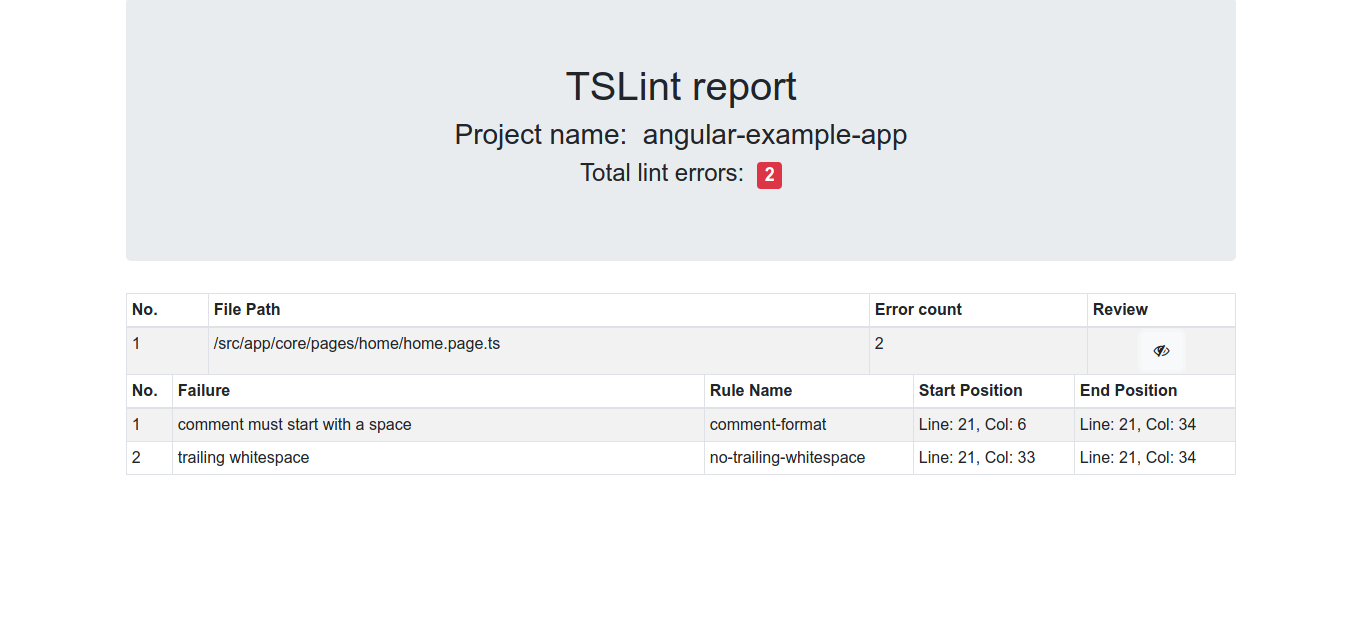
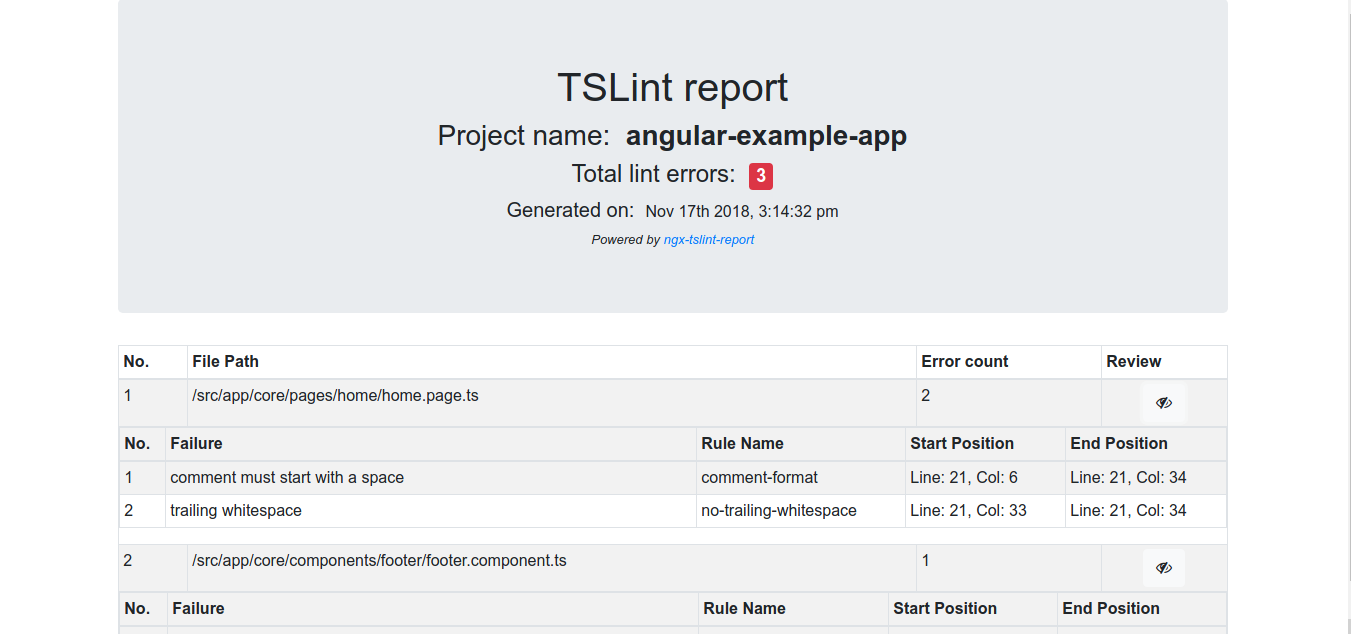
Updated readme and ui improvements

diff --git a/dist/ngx-tslint-report.js b/dist/ngx-tslint-report.js
@@ -1,2 +1,2 @@
 #!/usr/bin/env node
-var ngxtslintreport=function(t){"use strict";function p(){var t,n,r,e=Array.prototype.slice.call(arguments,0);return t=o(e,function(t,n){if("string"!=typeof t)throw new TypeError("Arguments to path.join must be strings");return t}).join("/"),n="/"===t.charAt(0),r="/"===i(t,-1),(t=function(t,n){for(var r=0,e=t.length-1;0<=e;e--){var o=t[e];"."===o?t.splice(e,1):".."===o?(t.splice(e,1),r++):r&&(t.splice(e,1),r--)}if(n)for(;r--;r)t.unshift("..");return t}(o(t.split("/"),function(t){return!!t}),!n).join("/"))||n||(t="."),t&&r&&(t+="/"),(n?"/":"")+t}function o(t,n){if(t.filter)return t.filter(n);for(var r=[],e=0;e<t.length;e++)n(t[e],e,t)&&r.push(t[e]);return r}var e,n,i="b"==="ab".substr(-1)?function(t,n,r){return t.substr(n,r)}:function(t,n,r){return n<0&&(n=t.length+n),t.substr(n,r)},c=require("chalk"),r=require("fancy-log");(n=e||(e={}))[n.INFO=0]="INFO",n[n.DEBUG=1]="DEBUG",n[n.WARN=2]="WARN",n[n.ERROR=3]="ERROR";var u=new(function(){function t(){this.logger=r}return t.prototype.info=function(t){this.formatAndPrint(e.INFO,t)},t.prototype.debug=function(t){this.formatAndPrint(e.DEBUG,t)},t.prototype.warn=function(t){this.formatAndPrint(e.WARN,t)},t.prototype.error=function(t){this.formatAndPrint(e.ERROR,t)},t.prototype.formatAndPrint=function(t,n){var r=n;switch(t){case e.INFO:r=c.green(n);break;case e.DEBUG:r=c.cyan(n);break;case e.WARN:r=c.yellow(n);break;case e.ERROR:r=c.red(n)}this.logger(r)},t}()),s=require("ora"),f=new(function(){function t(){}return t.prototype.show=function(t){var n={color:"magenta",spinner:"moon",text:t};this.loaderIndicator=s(n).start()},t.prototype.hide=function(){this.loaderIndicator.stop()},t}()),a="angular.json",l="package.json",h="ngx-tslint-report",g="tslint-report-config.json",d="ngx-ts-lint-report-template.hbs",y="index.html",T=require("fs-extra"),v=require("lodash"),m=require("npm-run"),R=require("handlebars"),x=require("detect-port"),b=process.cwd(),A=(require("http-server"),function(){function t(){this.ngxTslintReportConfig={},this.checkForAngularProject(),this.initializIncrementHelper(),this.initializLengthCheckHelper()}return t.prototype.initializIncrementHelper=function(){R.registerHelper("incIndex",function(t){return parseInt(t)+1})},t.prototype.initializLengthCheckHelper=function(){var e=this;R.registerHelper("ifLength",function(t,n,r){return t.length>n?r.fn(e):r.inverse(e)})},t.prototype.checkForAngularProject=function(){var n=this;u.info("Generating TSLint report for project in "+b);var t=p(b,a);T.pathExists(t).then(function(t){t?n.checkForTslintReportConfig():u.error("Please use ngx-tslint-report for Angular2 application")}).catch(function(t){u.error("Please use ngx-tslint-report for Angular2 application")})},t.prototype.checkForTslintReportConfig=function(){var n=this,t=p(b,h,g);T.pathExists(t).then(function(t){t?n.readTslintReportConfig():(u.debug("TS lint report config doesn't exists"),n.copyTslintReportConfig())}).catch(function(t){u.error("Unable to find/create TS lint report config")})},t.prototype.copyTslintReportConfig=function(){var t=this;u.debug("Copying default tslint report config");var n=p(__dirname,"config",g),r=p(b,h,g);T.copy(n,r).then(function(){u.info("Copied default config"),t.readTslintReportConfig()}).catch(function(t){u.error(t),u.error("Unable to find/create TS lint report config")})},t.prototype.readTslintReportConfig=function(){var e=this,t=p(b,h,g);T.readJson(t).then(function(t){e.ngxTslintReportConfig=t;var n=p(b,h,t.ngxtslintjson),r=e.buildTslintParams(t);u.error(r),T.ensureFile(n).then(function(){e.executeTslintScript(r)}).catch(function(t){u.error(t)})}).catch(function(t){u.error(t)})},t.prototype.buildTslintParams=function(t){var n=p(b,h,this.ngxTslintReportConfig.ngxtslintjson),r="";return t.exclude&&0<t.exclude.length&&v.forEach(t.exclude,function(t){var n=p(b,t);r+="-e '"+n+"'"}),"tslint -c "+t.tslint+" -t json -o "+n+" -p "+t.tsconfig+" "+r+" --force"},t.prototype.executeTslintScript=function(t){var e=this;f.show("Analyzing project for TSlint errors"),m.exec(t,{cwd:b},function(t,n,r){t&&u.error(t),f.hide(),e.readTslintReport()})},t.prototype.readTslintReport=function(){var n=this;f.show("Processing TSLint errors");var t=p(b,h,this.ngxTslintReportConfig.ngxtslintjson);T.readJson(t).then(function(t){f.hide(),n.processLintErrors(t)}).catch(function(t){u.error(t)})},t.prototype.processLintErrors=function(r){var n=[],e={};v.forEach(r,function(t){t.name=t.name.replace(b,"")}),v.forEach(r,function(t){v.includes(n,t.name)?e[t.name]++:(n.push(t.name),e[t.name]=1)});var o=[];Object.keys(e).forEach(function(t,n){o.push({index:n+1,name:t,count:e[t],details:v.filter(r,{name:t})})}),this.bindTsLintErrorInfoWithTemplate(o,r.length)},t.prototype.bindTsLintErrorInfoWithTemplate=function(t,n){var r=this,e=T.readFileSync(p(b,l),"utf8"),o=JSON.parse(e);u.error(o);var i={};i.total=n,i.errors=t,i.projectName=o.name,f.show("Generating Tslint report");var c=T.readFileSync(p(__dirname,"templates",d),"utf8"),s=R.compile(c,{})(i),a=p(b,h,y);T.outputFile(a,s).then(function(){f.hide(),u.info("Generated Tslint report"),u.warn("Total number of Tslint errors found: "+n),r.isPortAvailable(r.ngxTslintReportConfig.reportHostPort)}).catch(function(t){u.error(t)})},t.prototype.isPortAvailable=function(n){var r=this;x(n).then(function(t){n!=t&&(n=t),r.launchNgxTslintReport(n)}).catch(function(t){console.log(t)})},t.prototype.launchNgxTslintReport=function(t){var n="http-server "+p(b,h)+" -c10 -p "+t+" -o";m.exec(n,{cwd:b},function(t,n,r){t&&u.error(t)})},t}());new A;return t.ReportGenerator=A,t}({});
+var ngxtslintreport=function(t){"use strict";function p(){var t,r,n,e=Array.prototype.slice.call(arguments,0);return t=o(e,function(t,r){if("string"!=typeof t)throw new TypeError("Arguments to path.join must be strings");return t}).join("/"),r="/"===t.charAt(0),n="/"===i(t,-1),(t=function(t,r){for(var n=0,e=t.length-1;0<=e;e--){var o=t[e];"."===o?t.splice(e,1):".."===o?(t.splice(e,1),n++):n&&(t.splice(e,1),n--)}if(r)for(;n--;n)t.unshift("..");return t}(o(t.split("/"),function(t){return!!t}),!r).join("/"))||r||(t="."),t&&n&&(t+="/"),(r?"/":"")+t}function o(t,r){if(t.filter)return t.filter(r);for(var n=[],e=0;e<t.length;e++)r(t[e],e,t)&&n.push(t[e]);return n}var e,r,i="b"==="ab".substr(-1)?function(t,r,n){return t.substr(r,n)}:function(t,r,n){return r<0&&(r=t.length+r),t.substr(r,n)},c=require("chalk"),n=require("fancy-log");(r=e||(e={}))[r.INFO=0]="INFO",r[r.DEBUG=1]="DEBUG",r[r.WARN=2]="WARN",r[r.ERROR=3]="ERROR";var u=new(function(){function t(){this.logger=n}return t.prototype.info=function(t){this.formatAndPrint(e.INFO,t)},t.prototype.debug=function(t){this.formatAndPrint(e.DEBUG,t)},t.prototype.warn=function(t){this.formatAndPrint(e.WARN,t)},t.prototype.error=function(t){this.formatAndPrint(e.ERROR,t)},t.prototype.formatAndPrint=function(t,r){var n=r;switch(t){case e.INFO:n=c.green(r);break;case e.DEBUG:n=c.cyan(r);break;case e.WARN:n=c.yellow(r);break;case e.ERROR:n=c.red(r)}this.logger(n)},t}()),s=require("ora"),f=new(function(){function t(){}return t.prototype.show=function(t){var r={color:"magenta",spinner:"moon",text:t};this.loaderIndicator=s(r).start()},t.prototype.hide=function(){this.loaderIndicator.stop()},t}()),a="angular.json",l="package.json",h="ngx-tslint-report",g="tslint-report.json",d="tslint-report-config.json",m="ngx-ts-lint-report-template.hbs",y="index.html",T=require("fs-extra"),v=require("lodash"),x=require("npm-run"),R=require("handlebars"),b=require("detect-port"),A=process.cwd(),E=(require("http-server"),require("moment")),w=function(){function t(){this.ngxTslintReportConfig={},this.checkForAngularProject(),this.initializIncrementHelper()}return t.prototype.initializIncrementHelper=function(){R.registerHelper("incIndex",function(t){return parseInt(t)+1})},t.prototype.checkForAngularProject=function(){var r=this;u.info("Generating TSLint report for project in "+A);var t=p(A,a);T.pathExists(t).then(function(t){t?r.checkForTslintReportConfig():u.error("Please use ngx-tslint-report for Angular2 application")}).catch(function(t){u.error("Please use ngx-tslint-report for Angular2 application")})},t.prototype.checkForTslintReportConfig=function(){var r=this,t=p(A,h,d);T.pathExists(t).then(function(t){t?r.readTslintReportConfig():(u.debug("TS lint report config doesn't exists"),r.copyTslintReportConfig())}).catch(function(t){u.error("Unable to find/create TS lint report config")})},t.prototype.copyTslintReportConfig=function(){var t=this;u.debug("Copying default tslint report config");var r=p(__dirname,"config",d),n=p(A,h,d);T.copy(r,n).then(function(){u.info("Copied default config"),t.readTslintReportConfig()}).catch(function(t){u.error(t),u.error("Unable to find/create TS lint report config"),process.exit(1)})},t.prototype.readTslintReportConfig=function(){var e=this,t=p(A,h,d);T.readJson(t).then(function(t){e.ngxTslintReportConfig=t;var r=p(A,h,g),n=e.buildTslintParams(t);T.ensureFile(r).then(function(){e.executeTslintScript(n)}).catch(function(t){u.error(t),process.exit(1)})}).catch(function(t){u.error(t),process.exit(1)})},t.prototype.buildTslintParams=function(t){var r=p(A,h,g),n="";return t.exclude&&0<t.exclude.length&&v.forEach(t.exclude,function(t){var r=p(A,t);n+="-e '"+r+"'"}),"tslint -c "+t.tslint+" -t json -o "+r+" -p "+t.tsconfig+" "+n+" --force"},t.prototype.executeTslintScript=function(t){var e=this;f.show("Analyzing project for TSlint errors"),x.exec(t,{cwd:A},function(t,r,n){t&&u.error(t),f.hide(),e.readTslintReport()})},t.prototype.readTslintReport=function(){var r=this;f.show("Processing TSLint errors");var t=p(A,h,g);T.readJson(t).then(function(t){f.hide(),r.processLintErrors(t)}).catch(function(t){u.error(t),process.exit(1)})},t.prototype.processLintErrors=function(n){var r=[],e={};v.forEach(n,function(t){t.name=t.name.replace(A,"")}),v.forEach(n,function(t){v.includes(r,t.name)?e[t.name]++:(r.push(t.name),e[t.name]=1)});var o=[];Object.keys(e).forEach(function(t,r){o.push({index:r+1,name:t,count:e[t],details:v.filter(n,{name:t})})}),this.bindTsLintErrorInfoWithTemplate(o,n.length)},t.prototype.bindTsLintErrorInfoWithTemplate=function(t,r){var n=this,e=T.readFileSync(p(A,l),"utf8"),o=JSON.parse(e),i={};i.total=r,i.errors=t,i.projectName=o.name,i.generatedDate=E().format("MMM Do YYYY, h:mm:ss a"),f.show("Generating Tslint report");var c=T.readFileSync(p(__dirname,"templates",m),"utf8"),s=R.compile(c,{})(i),a=p(A,h,y);T.outputFile(a,s).then(function(){f.hide(),u.info("Generated Tslint report"),u.warn("Total number of Tslint errors found: "+r),n.isPortAvailable(n.ngxTslintReportConfig.reportHostPort)}).catch(function(t){u.error(t),process.exit(1)})},t.prototype.isPortAvailable=function(r){var n=this;b(r).then(function(t){r!=t&&(r=t),n.launchNgxTslintReport(r)}).catch(function(t){u.error(t),process.exit(1)})},t.prototype.launchNgxTslintReport=function(t){var r="http-server "+p(A,h)+" -c10 -p "+t+" -o";x.exec(r,{cwd:A},function(t,r,n){t&&u.error(t)})},t}();new w;return t.ReportGenerator=w,t}({});

diff --git a/src/app/ngx-tslint-report.ts b/src/app/ngx-tslint-report.ts
@@ -10,12 +10,12 @@ const handlebars = require('handlebars');
 const portDetector = require('detect-port');
 const projectPath = process.cwd();
 const httpServer = require('http-server');
+const moment = require('moment');
 export class ReportGenerator {
     ngxTslintReportConfig: any = {};
     constructor() {
         this.checkForAngularProject();
         this.initializIncrementHelper();
-        this.initializLengthCheckHelper();
     }
 
     /**
@@ -27,14 +27,6 @@ export class ReportGenerator {
         });
     }
 
-    private initializLengthCheckHelper() {
-        handlebars.registerHelper("ifLength", (iterable, sizeExpected, options) => {
-            if (iterable.length > sizeExpected) {
-                return options.fn(this);
-            }
-            return options.inverse(this);
-        });
-    }
     /**
      * Method to check whether user trying to create TSLint report for angular2+ application
      */
@@ -124,7 +116,6 @@ export class ReportGenerator {
      */
     private buildTslintParams(tslintReportConfig: any): string {
         const reportJsonPath = path.join(projectPath, FILENAMES.reportFolder, FILENAMES.ngxtslintjson);
-        // const pathToExcludeTsLint = tslintReportConfig.exclude.join(' ');
         let excludeGlobList = '';
         // TBD: Inject exclude option once an update released for tslint fixing https://github.com/palantir/tslint/issues/3881
         if (tslintReportConfig.exclude && tslintReportConfig.exclude.length > 0) {
@@ -214,6 +205,7 @@ export class ReportGenerator {
         tslintReportData['total'] = totalTsLintErrorCount;
         tslintReportData['errors'] = filesCollection;
         tslintReportData['projectName'] = parsedPackageInfo.name;
+        tslintReportData['generatedDate'] = moment().format("MMM Do YYYY, h:mm:ss a");
         spinner.show('Generating Tslint report');
         const ngxTslintHtmlTemplate = fs.readFileSync(path.join(__dirname, 'templates', FILENAMES.tslintReportTemplate), 'utf8');
         const compiledTemplate = handlebars.compile(ngxTslintHtmlTemplate, {});

diff --git a/README.md b/README.md
@@ -27,8 +27,8 @@ Executing the above script or `ngxtslintreport` for the first time will generate
     "reportHostPort": 8090
 }
 ```
-`tslint` - File path of tslint config preferred (Default: Current project config)
-`tsconfig` - Typescript config file path (Default: Current project config)
+`tslint` - File path of tslint config preferred (Default: Current project config)<br/>
+`tsconfig` - Typescript config file path (Default: Current project config)<br/>
 `reportHostPort` - Port where TSLint report has to be hosted (Default: 8090)
 
 *Note:* If default/configured `reportHostPort` is in use random port will be picked and report will be served there.
